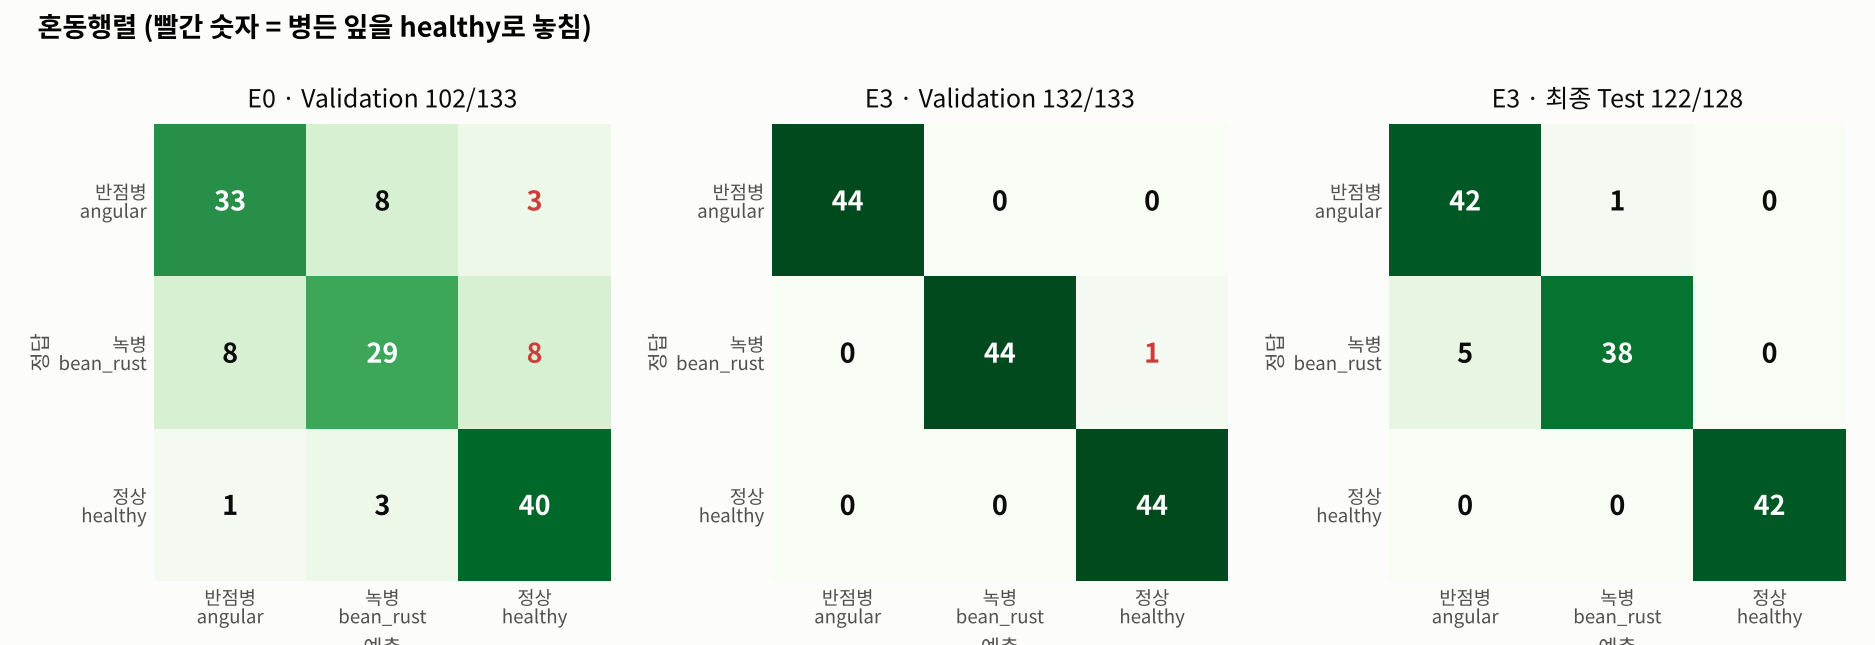
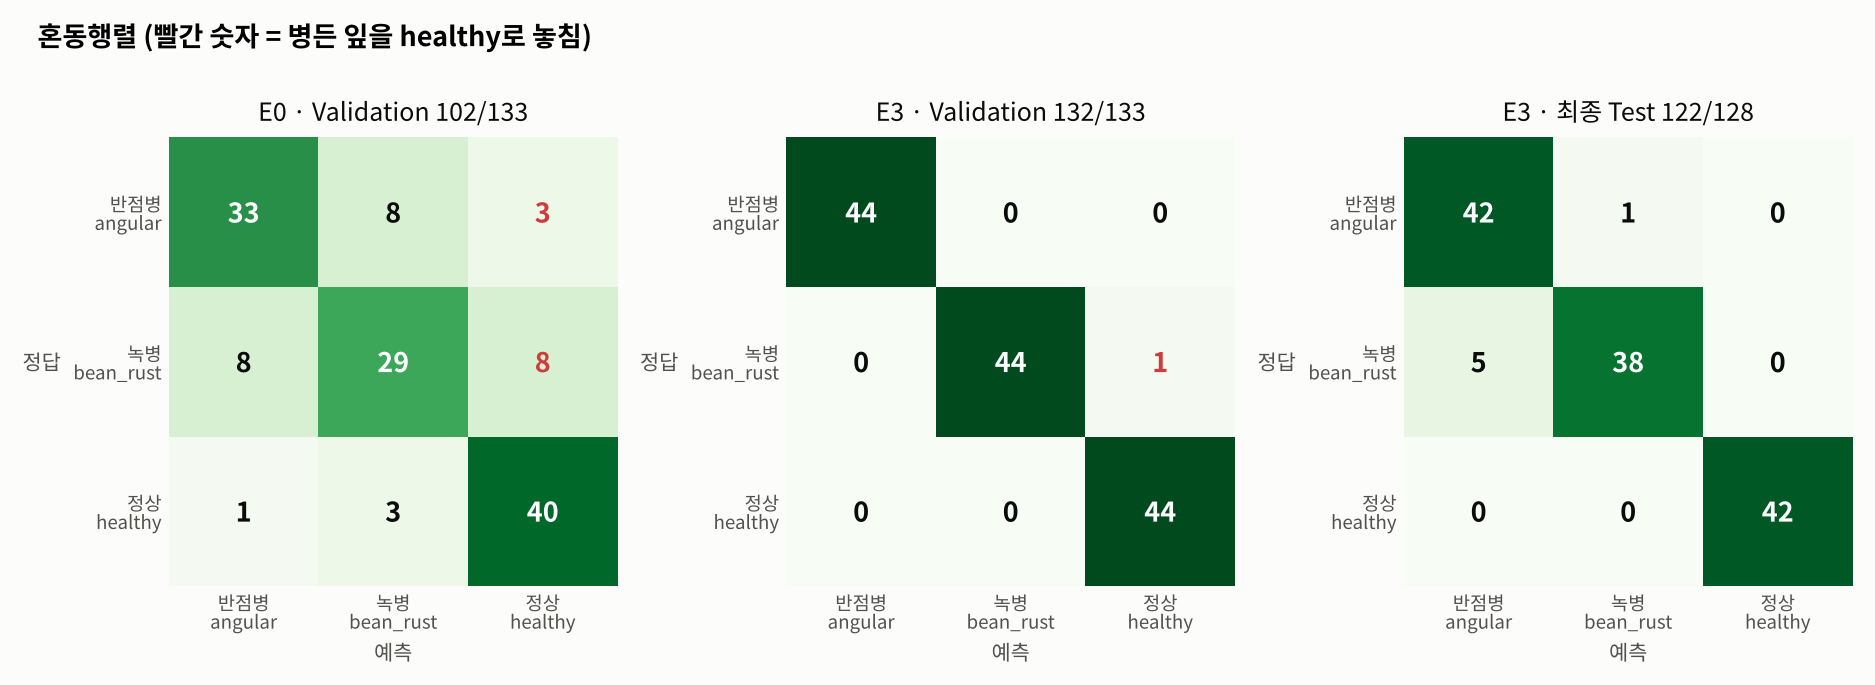
docs: README·산출물 8에 E2/E3 실험 설정 설명 추가, 대시보드 라벨 정리

diff --git a/scripts/make_figures.py b/scripts/make_figures.py
@@ -31,6 +31,7 @@ SURFACE, INK, INK2, MUTED, GRID = "#fcfcfb", "#0b0b0b", "#52514e", "#8a8984", "#
 CARD = "#f3f2ee"
 EXP = {"E0": "#2a78d6", "E2": "#eb6834", "E3": "#1baf7a"}          # 실험 = 범주색 1~3번 고정
 EXP_NAME = {"E0": "E0 Head-only", "E2": "E2 Full", "E3": "E3 Full+증강"}
+EXP_DESC = {"E0": "헤드만 학습", "E2": "전체 층 · lr↓", "E3": "+ 반전·회전·밝기"}
 STATUS = {"miss": "#d03b3b", "false_alarm": "#fab219", "confuse": "#a8a7a1"}
 TAGS = {"E0": "E0_headonly", "E2": "E2_full", "E3": "E3_full_aug"}
 CLASSES = ["angular_leaf_spot", "bean_rust", "healthy"]
@@ -103,7 +104,8 @@ def chart_val_test(ax):
     ax.axvline(2.6, color=GRID, linewidth=1.2, linestyle="--")
     ax.text(1.0, 1.045, "모델 선택 · Validation", ha="center", fontsize=10.5, color=INK2)
     ax.text(3.2, 1.045, "최종 · Test 1회", ha="center", fontsize=10.5, color=INK2)
-    ax.set_xticks(xs + [3.2], [EXP_NAME[e] for e in EXP] + ["E3 (선택 모델)"], fontsize=10.5, color=INK)
+    ax.set_xticks(xs + [3.2], [f"{EXP_NAME[e]}\n{EXP_DESC[e]}" for e in EXP] + ["E3 (선택 모델)\n처음 보는 128장"],
+                  fontsize=10.5, color=INK)
     ax.set_ylim(0.5, 1.08)
     ax.set_ylabel("정확도", color=INK2)
 
@@ -145,7 +147,7 @@ def chart_confusion(ax, report, title):
     ax.set_xticks(range(3), [SHORT[c] for c in CLASSES], fontsize=9, color=INK2)
     ax.set_yticks(range(3), [SHORT[c] for c in CLASSES], fontsize=9, color=INK2)
     ax.set_xlabel("예측", color=INK2)
-    ax.set_ylabel("정답", color=INK2)
+    ax.set_ylabel("정답", color=INK2, rotation=0, ha="right", va="center", labelpad=6)
     ax.set_title(title, fontsize=12, color=INK, pad=8)
     for s in ax.spines.values():
         s.set_visible(False)
@@ -259,21 +261,21 @@ def dashboard():
     fig.add_artist(plt.Line2D([0.045, 0.955], [0.69, 0.69], color=GRID, linewidth=1))
 
     # ① 성능 변화 / ② 오류 유형
-    section(fig, 0.045, 0.672, "①", "모델 선택 → 최종 평가", "Validation으로 E0·E2·E3를 비교해 E3 선택 → Test는 E3에만 1회")
+    section(fig, 0.045, 0.672, "①", "모델 선택 → 최종 평가", "E0→E2: Backbone까지 학습(lr 0.00005) · E2→E3: Train 증강 추가 → Val로 E3 선택")
     chart_val_test(fig.add_axes([0.07, 0.505, 0.39, 0.135]))
     section(fig, 0.53, 0.672, "②", "오류 유형 (Validation)", f"가장 위험한 '병을 놓침'이 {miss0} → {miss3}")
     chart_error_types(fig.add_axes([0.66, 0.505, 0.29, 0.135]))
 
-    # 정직한 해석 박스
+    # 해석 박스
     box = fig.add_axes([0.045, 0.40, 0.91, 0.075])
     box.axis("off")
     box.add_patch(FancyBboxPatch((0, 0), 1, 1, boxstyle="round,pad=0,rounding_size=0.03",
                                  transform=box.transAxes, facecolor=CARD, edgecolor="none"))
     box.text(0.02, 0.78, "결과를 읽는 법", fontsize=14, color=INK, fontweight="bold", transform=box.transAxes)
-    notes = [("① Test < Validation", "예상됨",
+    notes = [("가. Test < Validation", "예상됨",
               f"Val은 epoch·모델 선택에 쓰여 낙관적 · {v3['accuracy']:.3f} → {acc:.3f}"),
-             ("② 증강 효과", "확정 안 함", f"Val +{v3['correct'] - ev['val']['E2']['correct']}장(선택 규칙 충족) · 시드 1개 1회 실행"),
-             ("③ 작은 표본", "한계", "Val 1장 = 0.75%p · Test 1장 = 0.78%p")]
+             ("나. 증강 효과", "확정 안 함", f"Val +{v3['correct'] - ev['val']['E2']['correct']}장(선택 규칙 충족) · 시드 1개 1회 실행"),
+             ("다. 작은 표본", "한계", "Val 1장 = 0.75%p · Test 1장 = 0.78%p")]
     for i, (h, tag, body) in enumerate(notes):
         x0 = 0.02 + i * 0.33
         box.text(x0, 0.45, h, fontsize=12, color=INK, fontweight="bold", transform=box.transAxes)
@@ -282,12 +284,15 @@ def dashboard():
         box.text(x0, 0.15, body, fontsize=10.5, color=INK2, transform=box.transAxes)
 
     # ③ 혼동행렬 / ④ 응답시간
-    section(fig, 0.045, 0.375, "③", "혼동행렬", "E0(검증)는 질병끼리 혼동 + healthy 쏠림 → E3(최종 테스트)는 녹병→반점병만 남음")
+    section(fig, 0.045, 0.375, "③", "혼동행렬", "행=정답·열=예측 · E0: 질병 혼동+정상으로 놓침 → E3: 주로 녹병→반점병")
     chart_confusion(fig.add_axes([0.075, 0.21, 0.19, 0.125]), v0, f"E0 · Validation {v0['correct']}/133")
     ax_r = fig.add_axes([0.285, 0.21, 0.19, 0.125])
     chart_confusion(ax_r, t3, f"E3 · 최종 Test {t3['correct']}/128")
     ax_r.set_yticks([])
     ax_r.set_ylabel("")
+    for a in fig.axes[-2:]:
+        a.set_xlabel("")  # 대시보드에서는 부제목에 행/열 설명 → ⑤ 제목과 겹침 방지
+    fig.axes[-2].set_ylabel("")
     section(fig, 0.53, 0.375, "④", "응답 시간 (E3 서비스, Docker CPU)", "비동기는 '접수'가 빠를 뿐 결과는 더 늦다")
     chart_latency(fig.add_axes([0.66, 0.225, 0.29, 0.125]))
 
@@ -312,7 +317,7 @@ def dashboard():
         fig.text(tx, y, h, fontsize=11.5, color=INK, fontweight="bold")
         fig.text(tx + 0.13, y, b, fontsize=10.5, color=INK2)
     fig.text(0.045, 0.012, "출처: reports/data/ eval_*.json · training_report_E*.json · timings.csv · hsv_rule_summary.json  ·  "
-             "모델·규칙은 Validation으로만 선택, Test는 선택된 E3 성능 보고에만 사용", fontsize=9.5, color=MUTED)
+             "모델은 Validation으로 선택, 최종 성능은 선택된 E3의 Test 결과", fontsize=9.5, color=MUTED)
     fig.savefig(FIG / "dashboard.png", facecolor=SURFACE)
     plt.close(fig)
 
@@ -320,7 +325,7 @@ def dashboard():
 if __name__ == "__main__":
     FIG.mkdir(parents=True, exist_ok=True)
     save_single("val_vs_test.png", chart_val_test, title="모델 선택(Validation) → 최종 평가(Test 1회)",
-                note="E0·E2·E3는 Validation으로만 비교·선택, Test는 선택된 E3에 1회 적용")
+                note="E0·E2·E3는 Validation으로 비교·선택, 최종 평가는 선택된 E3")
     save_single("error_types.png", chart_error_types, title="Validation 오류 유형 (133장)")
     save_single("latency.png", chart_latency, title="응답 시간 비교 (E3 서비스 · Docker CPU · 조건별 5회)",
                 note="비동기 완료 시간은 상태 조회 간격 0.1초 기준 (브라우저 화면은 1초 간격)")
@@ -331,7 +336,7 @@ if __name__ == "__main__":
     chart_confusion(axes[2], ev["test"]["E3"], f"E3 · 최종 Test {ev['test']['E3']['correct']}/128")
     fig.suptitle("혼동행렬 (빨간 숫자 = 병든 잎을 healthy로 놓침)", x=0.02, ha="left", fontsize=13, fontweight="bold")
     fig.tight_layout(rect=(0, 0, 1, 0.93))
-    fig.savefig(FIG / "confusion_E0_E3.png", facecolor=SURFACE)
+    fig.savefig(FIG / "confusion_E0_E3.png", facecolor=SURFACE, bbox_inches="tight", pad_inches=0.15)
     plt.close(fig)
     dashboard()
     print("saved:", sorted(p.name for p in FIG.glob("*.png")))

diff --git a/reports/08_최종기술보고서.md b/reports/08_최종기술보고서.md
@@ -29,7 +29,7 @@
 | 데이터 | 원본 zip 보존 → `train/val/test` 배치 → 개수·중복·누출 점검 | 중복·누출·라벨 충돌 0, 비이미지 파일 1개 발견·제외 확인 | [산출물 1](01_FineTuning_결과보고서.md) 2장 |
 | 01 기준선 | 제공 코드 그대로 Head-only 학습(E0), 동기 API 연결 | Val 0.767 · ImageNet 라벨 → 콩잎 라벨 전환 확인 | 산출물 1 |
 | 02 통합 | Redis 캐시 · Celery · PostgreSQL · Docker Compose | 동기/비동기, 캐시 HIT/MISS, DB 기록, worker 정지·Redis 장애·복구까지 확인 | [산출물 2](02_시스템_아키텍처.md)·[3](03_API_명세서.md)·[4](04_DB_구조_작업이력.md)·[5](05_AI버튼_처리흐름.md)·[7](07_기능테스트_오류분석.md) |
-| 개선 실험 | E2 Full Fine-tuning, E3 Full + 증강 (한 번에 한 조건만 변경) | Val 0.970 / 0.993 → **사전 규칙으로 E3 선택** | 산출물 1 3~6장 |
+| 개선 실험 | E2 Full Fine-tuning(가이드 B 설정: 동결 해제 + lr 0.00005), E3 = E2 + 증강만 추가 | Val 0.970 / 0.993 → **사전 규칙으로 E3 선택** | 산출물 1 3~6장 |
 | 최종 평가 | 평가 도구로 Val 재현 확인 → **E3를 Test에 1회** | Test **0.953** | 산출물 1 7~8장 |
 | 서비스 반영 | `.env` 교체 → web·worker 재생성 → 응답·DB로 확인 | job 8부터 `model_id` E3 | 산출물 1 11-2 |
 | 성능 측정 | 동기/비동기 × MISS/HIT 5회, 워밍업 분리 | 캐시 −91%, 비동기 접수 −57% | [산출물 6](06_성능비교_보고서.md) |
@@ -39,11 +39,16 @@
 
 ![모델 선택과 최종 평가](figures/val_vs_test.png)
 
-| ID | 학습 방식 | Validation | Val 병을 놓침 | 학습 파라미터 |
-|---|---|---:|---:|---|
-| E0 | Head-only (필수 기준선) | 0.7669 | 11 | 분류 헤드 1,539개 |
-| E2 | Full Fine-tuning | 0.9699 | 2 | 전체 |
-| **E3** ⭐ | Full + 증강 | **0.9925** | **1** | 전체 |
+| ID | 학습 방식 | 바꾼 것 | 학습 파라미터 | 학습률 | Train 증강 | Validation | Val 병을 놓침 |
+|---|---|---|---|---:|---|---:|---:|
+| E0 | Head-only (필수 기준선) | 제공 명령 그대로 (`--freeze-backbone`) | 분류 헤드 1,539개 | 0.0002 (기본값) | 없음 | 0.7669 | 11 |
+| E2 | Full Fine-tuning | `--freeze-backbone` 제거 + `--lr 0.00005` (가이드 6-1 B) | **전체** (약 1,118만 개) | 0.00005 | 없음 | 0.9699 | 2 |
+| **E3** ⭐ | Full + 증강 | E2에 **Train 증강만** 추가 (`training/finetune_aug.py`) | 전체 | 0.00005 | 좌우 반전 50% · 회전 ±20° · 밝기·대비 ±0.2 | **0.9925** | **1** |
+
+공통 조건: epochs 3 · batch 8 · 같은 Train 1,034장 / Validation 133장 · 제공 `finetune.py` 미수정.
+
+- **Full Fine-tuning에서 한 일:** 제공 코드는 `--freeze-backbone`을 주면 이름이 `classifier.`로 시작하는 층만 `requires_grad=True`로 두고 나머지(Backbone)는 고정한다. E2는 이 옵션을 빼서 **Backbone의 합성곱 층까지 모두 콩잎 데이터로 다시 학습**했다. 이미 ImageNet으로 잘 학습된 가중치를 크게 흔들면 사전학습 특징이 망가지므로 학습률을 기본값의 ¼(0.00005)로 낮췄다. 동결 해제와 학습률은 가이드 B 설정대로 함께 바꿨으므로 두 효과를 따로 분리하지는 않았다.
+- **증강(E3)에서 한 일:** Train 사진을 읽을 때마다 무작위 변형을 적용해 매 epoch 조금씩 다른 사진을 보게 했다. 촬영 방향(반전·회전)과 조명(밝기·대비) 차이를 흉내 내되, 병을 구분하는 색 단서를 지키려고 **색조·채도는 바꾸지 않았다.** Validation에는 적용하지 않았다. 상세는 6장 ①.
 
 | **최종 평가 (E3, Test 1회)** | 정확도 **0.9531** · Macro-F1 0.9534 · 병을 놓침 **0** · 정상 오경보 0 · 남은 오답 6장 모두 질병 간 혼동 |
 |---|---|
@@ -51,7 +56,6 @@
 - **Backbone까지 학습한 효과가 결정적이었다.** E0의 Val 오답 31장 중 16장이 두 질병 간 혼동, 11장이 질병→정상 누락이었다. ImageNet 특징을 고정한 채로는 병반의 미세한 차이를 구분하지 못했다.
 - **증강 효과는 확정하지 않는다.** E3는 Val에서 E2보다 3장 더 맞혀 사전 규칙을 충족했지만, 시드 1개·1회 실행이라 향상 폭을 일반화하지 않는다.
 - **Test가 Val보다 낮은 것은 예상된 결과다.** Val은 best epoch와 모델 선택에 모두 쓰여 낙관적이다 (0.9925 → 0.9531).
-- Test 사용 이력(선택 후 E0·E2 참고 조회, HSV 범위 조정 시 Test 사진 일부 사용)은 [산출물 1 부록](01_FineTuning_결과보고서.md#부록-test-사용-이력-원칙-점검)에 그대로 공개했다.
 
 ![Validation 오류 유형](figures/error_types.png)
 
@@ -120,7 +124,7 @@
 - 반점병은 병반이 크고 뚜렷해 면적비가 높았지만, **녹병과 정상은 중앙값이 거의 같았다.** 녹병의 작은 돌기는 256×256 축소에서 잘 잡히지 않고, 정상 잎에서도 손·흙·잎 구멍이 병반 후보로 잡혔다.
 - 색조(H) 중앙값도 세 클래스가 19~20으로 같아 **색조로 두 질병을 나눌 수 없었다.**
 - E3가 healthy 0.95로 틀린 `bean_rust_val.8`은 병반 면적비 0.0014로, **모델과 색 규칙 모두 병반을 보지 못한 사례**다.
-- 방법상 한계: HSV 색 범위는 소수 샘플 화면을 눈으로 보며 정했고, 그 샘플에 **Test 오답 사진 일부가 포함**되었다(누출). 그래서 HSV 결과는 참고용이며 서비스 판단에 쓰지 않는다.
+- 방법상 한계: HSV 색 범위는 소수 샘플 화면을 눈으로 보며 정했다. 그래서 HSV 결과는 참고용이며 서비스 판단에 쓰지 않는다.
 
 ### ④ 규칙 기반 보조 판단 (오프라인 시뮬레이션)
 
@@ -140,7 +144,7 @@
 - **R1(색 규칙)은 기각한다.** 유일한 오답(`bean_rust_val.8`)은 병반 면적비가 0.0014로 낮아 잡히지 않았고, 정상 잎 3장만 보류했다.
 - **R2(점수 차 규칙)는 적용을 보류한다.** E3의 Validation에는 점수 차가 작은 오답이 없어(유일한 오답의 점수 차 0.90) 효과를 확인할 근거가 없다. 기준 0.4도 E0 분석에서 가져온 값이다.
 - **확신을 갖고 틀린 사례는 어떤 규칙으로도 잡지 못한다.** 점수와 독립적인 새 근거가 필요하다.
-- 이 규칙을 Test에도 적용해 본 결과(R2: 보류 3.9%, 오답 4/6 포착)가 있지만, Test는 이미 여러 번 조회된 상태이고 R1은 HSV 범위 조정에 Test 사진을 본 누출이 있어 **참고값으로만** [산출물 1 부록](01_FineTuning_결과보고서.md#부록-test-사용-이력-원칙-점검)에 둔다. R2의 효과는 **새 데이터로 다시 검증**해야 한다.
+- R2의 효과는 **새 데이터로 다시 검증**해야 한다.
 - 원본: `reports/data/hsv_rule_summary.json`, `hsv_features_val.csv`
 
 ### 제안만 한 기술 (미구현 · 효과 미검증)
@@ -190,7 +194,7 @@
 | 모델 경로와 `.env` `MODEL_PATH` 일치 | ✅ `.env`·응답 `model_id`·DB 기록 모두 E3로 일치. 가이드 기본 경로 `artifacts/beans_resnet18`에는 필수 실험 E0를 그대로 보존했고, 기본 경로로 전환하는 명령은 13장에 있음 |
 | 학습 로그와 `training_report.json` 수치 일치 | ✅ E0·E2·E3 모두 + 평가 스크립트로 재현 |
 | Head-only와 Full Fine-tuning 구분 | ✅ E0 / E2 / E3 별도 폴더·별도 표기 |
-| Validation과 Test 구분 | ✅ 선택은 Val, 최종 성능은 E3 Test 1회 (선택 후 참고 조회 이력은 산출물 1 부록에 공개) |
+| Validation과 Test 구분 | ✅ 선택은 Val, 최종 성능은 E3 Test 1회 |
 | 동기 결과와 비동기 완료 결과 확인 | ✅ |
 | Celery · Redis 캐시/브로커 · PostgreSQL 작동 증빙 | ✅ DB1·DB2·DB3 역할 구분 확인 |
 | `image_jobs` 상태·결과 확인 | ✅ `done` · `queued` · `failed` 실제 관찰 |
@@ -208,7 +212,6 @@
 3. **모델 판단:** score는 보정된 확률이 아니며, 확신 오답(0.95)이 존재한다. "콩잎이 아님"을 판단하지 못한다.
 4. **시스템:** 동시 요청 부하는 측정하지 않았다. worker는 solo·1개라 작업이 몰리면 순서대로 처리된다.
 5. **실행 방식:** 평가 가이드의 WSL 실행 방식으로는 02 통합을 검증하지 않았다.
-6. **Test 사용:** 선택 확정 후 E0·E2도 Test로 참고 조회했고, HSV 색 범위 조정에 Test 사진 일부를 봤다. 최종 성능 보고는 E3 1회 결과만 쓰며, 이 Test 세트는 이후 개선 검증에 다시 쓰지 않는다.
 
 ## 11. 개선 제안 (우선순위)
 
@@ -221,7 +224,7 @@
 | 5 | DB | `started_at`, `finished_at` 추가 → 대기 시간과 처리 시간 분리 | job 3의 2분 16초를 나눌 수 없음 |
 | 6 | 입력 검증 | 학습 범위 밖 이미지 거르기 | 고양이 → bean_rust 0.525 |
 | 7 | 보안 | DB 비밀번호를 `compose.yaml`에서 `.env`로 분리, worker 비root 실행 (`--uid`) | 평문 비밀번호, Celery `SecurityWarning` |
-| 8 | 실험 | 새 검증 데이터 확보 또는 Train 교차검증, 시드 3~5개 반복 | 현재 Test 세트는 여러 번 조회된 상태 · 증강·R2 근거 부족 |
+| 8 | 실험 | 새 검증 데이터 확보 또는 Train 교차검증, 시드 3~5개 반복 | 증강·R2 근거 부족 · 개선 효과는 Test가 아닌 새 데이터로 검증 |
 
 ## 12. 산출물 지도
 

diff --git a/README.md b/README.md
@@ -7,7 +7,7 @@
 </div>
 
 콩잎 사진 1,295장으로 ResNet-18을 **반점병 · 녹병 · 정상** 3클래스로 Fine-tuning하고, 동기 API · Redis 캐시 · Celery 비동기 작업 · PostgreSQL 작업 기록을 Docker Compose로 서비스했습니다.
-기준선의 원인을 진단해 **한 번에 한 조건만 바꿔** 개선했고, 모델은 **Validation으로 고른 뒤 Test에 한 번** 평가했습니다.
+기준선의 원인을 진단해 **교재의 Full Fine-tuning 설정 → 증강 추가** 순서로 개선했고, 모델은 **Validation으로 고른 뒤 Test에 한 번** 평가했습니다.
 
 <p align="center">
   <img src="reports/figures/dashboard.png" alt="프로젝트 한눈에 보기" width="100%">
@@ -17,7 +17,18 @@
 |---|---|---|
 | **한 일** | 데이터 점검 → Head-only 기준선 → Full Fine-tuning · 증강 실험 → Val 선택 → Test 1회 → 오답 분석 | 동기 API + Redis 캐시 · Celery 비동기 · PostgreSQL 기록 · 모델 교체 · 장애 테스트 |
 | **핵심 숫자** | Val **0.767 → 0.993** · 최종 Test **0.953** · 병든 잎 놓침 Val **11 → 1**, Test **0** | 캐시 HIT **−91%** · 비동기 접수 **9.1 ms** · 실환경 테스트 **27 / 27 PASS** |
-| **정직하게 남긴 것** | 증강 효과 크기는 미확정 · 색 규칙은 기각 · [Test 사용 이력 공개](reports/01_FineTuning_결과보고서.md#부록-test-사용-이력-원칙-점검) | Redis 장애 시 응답 8초·20초 지연 → 개선안으로 이관 |
+
+### 실험 설정 — 무엇을 바꿨나
+
+| 실험 | 바꾼 것 | 학습되는 부분 | 학습률 | Train 증강 | Validation |
+|---|---|---|---:|---|---:|
+| **E0** Head-only (필수) | 제공 명령 그대로 (`--freeze-backbone`) | 마지막 분류 헤드만 (1,539개) | 0.0002 | 없음 | 0.767 |
+| **E2** Full Fine-tuning | 동결 해제 + 학습률 ¼ (가이드 6-1 B 설정) | **Backbone 포함 전체** (약 1,118만 개) | 0.00005 | 없음 | 0.970 |
+| **E3** Full + 증강 ⭐ | E2에 **Train 증강만** 추가 | 전체 | 0.00005 | 좌우 반전(50%) · 회전 ±20° · 밝기·대비 ±20% | **0.993** |
+
+- **Full Fine-tuning:** E0는 ImageNet에서 배운 "눈"(Backbone)을 고정하고 마지막 층만 학습했다. E2는 Backbone까지 콩잎 병반에 맞게 다시 학습하고, 사전학습 특징이 망가지지 않도록 학습률을 낮췄다.
+- **증강:** 학습할 때마다 Train 사진을 무작위로 뒤집고·돌리고·밝기를 바꿔 촬영 방향·조명 차이에 강하게 만든다. 녹병(적갈색)과 반점병(황갈색)은 색이 단서라 **색조·채도는 바꾸지 않았다.** Validation·Test에는 적용하지 않는다.
+- 공통: epochs 3 · batch 8 · 같은 Train/Validation · `training/finetune.py` 미수정 (E3는 래퍼 `training/finetune_aug.py`)
 
 ## 산출물
 

diff --git a/reports/01_FineTuning_결과보고서.md b/reports/01_FineTuning_결과보고서.md
@@ -91,7 +91,7 @@
 
 ## 3. 실험 설계
 
-### 3-1. 한 번에 한 조건만 바꿈
+### 3-1. 실험 설계 — 바로 앞 단계와 비교
 
 | ID | 구분 | 바꾼 조건 | 비교 대상 | 확인하려는 것 |
 |---|---|---|---|---|
@@ -100,6 +100,7 @@
 | E3 | 선택 | E2와 동일 + **Train 이미지 증강** | E2 | 증강 효과 |
 
 - E2 옵션은 평가 가이드 6-1 B의 샘플 실행 옵션과 같다 (epochs 3, batch 8, lr 0.00005).
+- E0 → E2는 **동결 해제와 학습률 변경(0.0002 → 0.00005)을 한 묶음**으로 바꿨다(가이드 B 설정). 두 효과를 따로 분리하지 않았으므로 E2의 향상은 "Full Fine-tuning 설정"의 효과로 해석한다. E2 → E3는 **증강 하나만** 바꿨다.
 - 학습률을 낮춘 이유: Full Fine-tuning은 ImageNet으로 이미 학습된 Backbone까지 고치므로, 큰 학습률은 사전학습 특징을 망가뜨릴 수 있다.
 
 ### 3-2. 평가 규칙 (실험 전에 정함)
